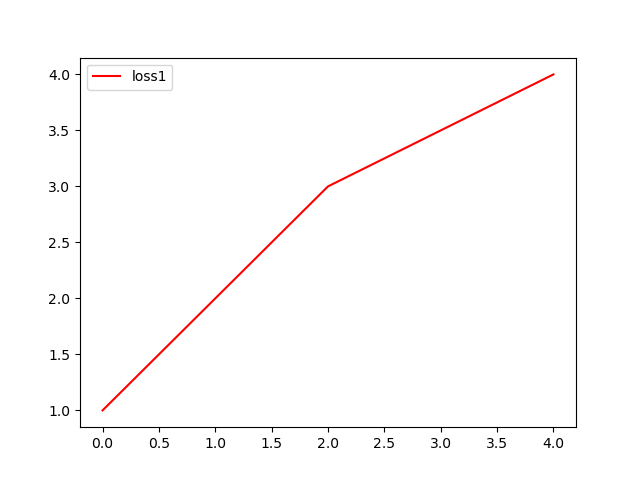
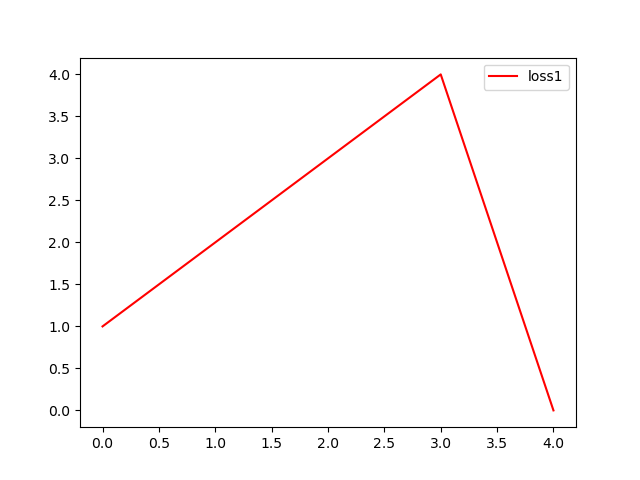
version 0.4
1.修改了Easy Loss Util中的一个bug:
画图时, x轴的坐标的生成出现了问题, np.linspace()的stop参数是包含在内的,即右闭区间
2.在Easy Loss Util和QuickAverageMethod中添加了一行代码获取操作所有loss的方法,包括append和get

diff --git a/EasyLossUtil/easyLossUtil.py b/EasyLossUtil/easyLossUtil.py
@@ -13,43 +13,61 @@ class EasyLossUtil:
         self.loss_name_list = loss_name_list
         self.loss_root_dir = loss_root_dir
         # 一共要处理多少个loss
-        loss_num = len(loss_name_list)
-        # 用于检查loss名字是否有重复的，存储 名字-index 键值对
-        self.name_dict = {}
-        # 存储所有loss数据
-        self.list_array = []
-        # 创建loss_num个list存储数据
-        print("要处理的loss的名字为:")
-        for i in range(loss_num):
-            check = self.name_dict.get(loss_name_list[i], None)
+        self.loss_num = len(loss_name_list)
+        # 用于存储所有loss数据, loss_name, list键值对
+        self.data = {}
+        # 检查loss_name的同时初始化字典
+        print("EasyLossUtil---要处理的loss的名字为:")
+        for i in range(self.loss_num):
+            # 检测是否已经存在这个name的loss
+            check = self.data.get(loss_name_list[i], None)
             if check is None:
+                # 不存在, 就新建一个空的list并且存储到字典中
                 print(loss_name_list[i])
-                self.name_dict[loss_name_list[i]] = i
+                self.data[loss_name_list[i]] = []
             else:
                 raise RuntimeError(f"loss的名字不允许重复:{str(loss_name_list)}")
-            loss_list_i = []
-            self.list_array.append(loss_list_i)
         print()
         # 查看数据存储目录是否存在，不存在则创建
         if not os.path.exists(loss_root_dir):
             os.mkdir(loss_root_dir)
 
-    def append(self, loss_name: str, loss_data_point: float):
+    def append(self, loss_name, loss_data):
         """
-        :param loss_name: 要存储的loss的名字
-        :param loss_data_point: 要存储的数据
+        :param loss_name: 要存储的loss的名字 可以是单个也可以是list
+        :param loss_data: 要存储的数据  可以是单个也可以是list
+        example:
+            单个数据
+                loss_name: loss_g
+                loss_data: 1
+            多个数据
+                loss_name: loss_g   loss_d
+                loss_data: 1        2
         """
-        self.list_array[self.name_dict[loss_name]].append(loss_data_point)
+        loss_name_type = type(loss_name)
+        if loss_name_type is str:
+            # 单个数据的情况
+            self.data[loss_name].append(loss_data)
+        elif loss_name_type is list and type(loss_data) is list:
+            # 多个数据的情况
+            assert len(loss_name) == len(loss_data), f"loss_name和loss_data的数据个数不一致"
+            for idx in range(len(loss_name)):
+                # 依次存储所有数据
+                name = loss_name[idx]
+                d = loss_data[idx]
+                self.data[name].append(d)
+        else:
+            raise RuntimeError(f"loss_name 的类型: {loss_name_type} 不正确")
 
-    def save2File(self, loss_name):
+    def saveSingleLoss2File(self, loss_name:str):
         """
         将loss数据保存为csv文件存储
         :param loss_name: 要存储的loss的名字
         """
-        pdOperator = pd.DataFrame(data=self.list_array[self.name_dict[loss_name]])
+        pdOperator = pd.DataFrame(data=self.data[loss_name])
         pdOperator.to_csv(os.path.join(self.loss_root_dir, loss_name + ".csv"), index=False, header=False)
 
-    def save2Image(self, loss_name, image_name: str, line_color = "red", start_epoch: int = 0):
+    def saveSingleLoss2Image(self, loss_name, image_name: str, line_color ="red", start_epoch: int = 0):
         """
         将loss数据保存为折线图
         :param loss_name: 要保存的loss
@@ -58,9 +76,21 @@ class EasyLossUtil:
         :param start_epoch: 横坐标的起始值(开始训练的epoch的数值)   例如100-200, 用于接续训练的情况
         """
         plt.figure()
-        data_len = len(self.list_array[self.name_dict[loss_name]])
-        x = np.linspace(start=start_epoch, stop=start_epoch + data_len, num=data_len, dtype=np.uint32)
-        plt.plot(x, np.array(self.list_array[self.name_dict[loss_name]]), line_color, label=loss_name)
+        data_len = len(self.data[loss_name])
+        # 注意此处stop是包含在内的, 是全闭合区间
+        x = np.linspace(start=start_epoch, stop=start_epoch + data_len-1, num=data_len, dtype=np.uint32)
+        # print(x)
+        plt.plot(x, np.array(self.data[loss_name]), line_color, label=loss_name)
         plt.legend(loc='best')
         plt.savefig(os.path.join(self.loss_root_dir, image_name))
         plt.close()
+
+    def autoSaveFileAndImage(self):
+        """
+        全自动保存所有loss数据到csv文件和图像
+        """
+        # 图像的后缀名
+        postfix = "png"
+        for name in self.loss_name_list:
+            self.saveSingleLoss2File(name)
+            self.saveSingleLoss2Image(loss_name=name, image_name=name + "." + postfix)

diff --git a/EasyLossUtil/quickAverageMethod.py b/EasyLossUtil/quickAverageMethod.py
@@ -14,12 +14,29 @@ class QuickAverageMethod:
             loss_data = []
             self.data[loss_name_list[index]] = loss_data
 
-    def append(self, loss_name:str, value):
+    def append(self, loss_name, value):
         """
-        添加一个loss值
+        添加loss值
+        :param loss_name: loss的名字  可以是一个str,也可以是str的list
+        :param value: loss的值  可以是一个值也可以是list
+        example:
+            单个数据
+                loss_name: loss_g
+                loss_data: 1
+            多个数据
+                loss_name: loss_g   loss_d
+                loss_data: 1        2
         """
-        assert loss_name in self.loss_name_list, f"loss_name:{loss_name} is not valid!"
-        self.data[loss_name].append(value)
+        loss_name_type = type(loss_name)
+        if loss_name_type is str:
+            self.data[loss_name].append(value)
+        elif loss_name_type is list:
+            assert len(loss_name) == len(value), f"loss_name和value的数据个数不一致"
+            # 依次添加
+            for idx, name in enumerate(loss_name):
+                self.data[name].append(value[idx])
+        else:
+            raise RuntimeError(f"the type of loss_name:{loss_name_type} is not valid!")
 
     def getAverageValue(self, loss_name:str):
         """
@@ -32,6 +49,17 @@ class QuickAverageMethod:
             # 第index个loss的第j个loss值
             average += self.data[loss_name][j] / length
         return average
+
+    def getAllAvgLoss(self):
+        """
+        获取所有loss的均值并且以list的形式返回
+        :return: list形式的loss的均值
+        """
+        avg_loss_list = []
+        for name in self.loss_name_list:
+            avg_loss = self.getAverageValue(loss_name=name)
+            avg_loss_list.append(avg_loss)
+        return avg_loss_list
 
     def clearSpecificLoss(self, loss_name):
         """
@@ -54,6 +82,8 @@ if __name__ == "__main__":
     for i in range(10):
         q.append("loss1", i)
         q.append("loss2", 10 + i)
-    print(q.getAverageValue("loss1"))
+    a = q.getAverageValue("loss1")
+    print(type(a))
+    print(a)
     q.clearAllData()
     print(q.getAverageValue("loss1"))

diff --git a/readme.md b/readme.md
@@ -1,4 +1,4 @@
-## RsLossUtil   
+## EasyLossUtil   
 ### 简介   
 在训练神经网路模型的过程中常常有loss数据,一般表现为一个epoch出现好几个。  
 如果要使用tensorbord去可视化训练loss，我又懒得配置，因此自己写了将loss保存为文件以及图片的程序。
@@ -10,7 +10,7 @@ numpy==1.21.4
 matplotlib=3.2.2   
 
 
-### example
+### Easy Loss Util example
 
 ```python
 import os
@@ -22,12 +22,8 @@ lossUtil = EasyLossUtil(loss_name_list=name_list, loss_root_dir=os.path.join(roo
 loss1 = [1, 2, 3, 4]
 loss2 = [5, 2, 3, 4]
 for i in range(len(loss1)):
-    lossUtil.append(loss_name=name_list[0], loss_data_point=loss1[i])
-    lossUtil.append(loss_name=name_list[1], loss_data_point=loss2[i])
-lossUtil.save2File(loss_name=name_list[0])
-lossUtil.save2File(loss_name=name_list[1])
-lossUtil.save2Image(loss_name=name_list[0], image_name=name_list[0])
-lossUtil.save2Image(loss_name=name_list[1], image_name=name_list[1])
+    lossUtil.append(loss_name=name_list, loss_data=[loss1[i], loss2[i]])
+lossUtil.autoSaveFileAndImage()
 ```
 
 loss1.png   
@@ -46,3 +42,21 @@ loss1.csv:
 2   
 3   
 4   
+
+### Quick Average Method Example
+```python
+import os
+from EasyLossUtil.quickAverageMethod import QuickAverageMethod
+
+name_list = ["loss1", "loss2"]
+q = QuickAverageMethod(loss_name_list=name_list)
+loss1 = [1, 2, 3, 4, 0]
+loss2 = [5, 2, 3, 4, 0]
+for i in range(len(loss1)):
+    q.append(loss_name=name_list, value=[loss1[i], loss2[i]])
+all_avg_loss = q.getAllAvgLoss()
+print(all_avg_loss)
+```
+
+输出为:   
+[2.0, 2.8]
